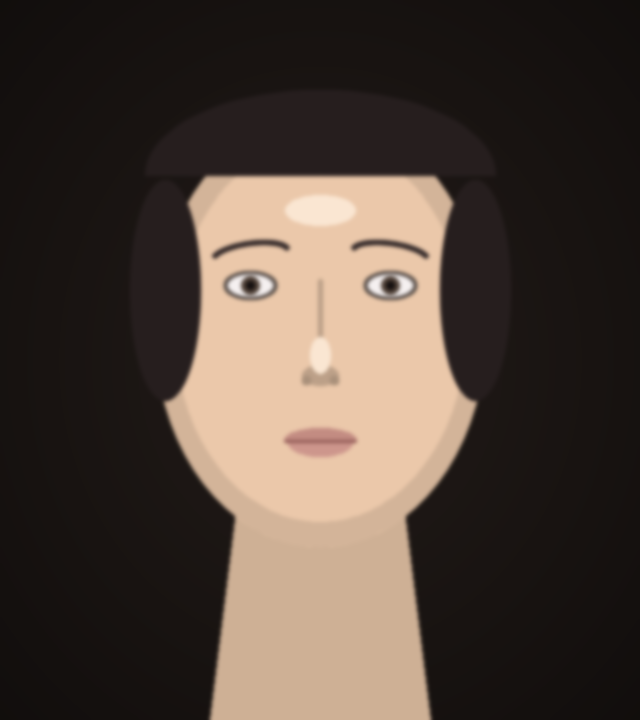
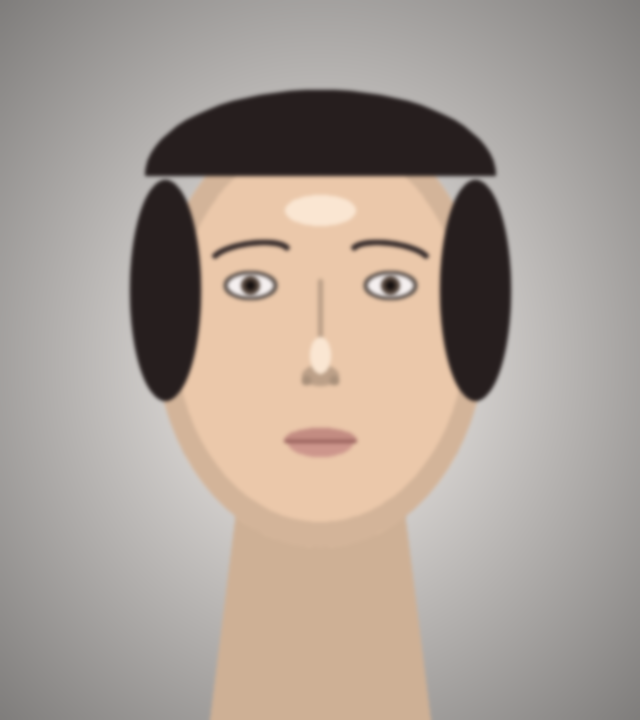
fix(ui): eradicate all dark backgrounds, set light theme, and style BaseWeb widgets with coastal sea-blue palette

diff --git a/skinnalgo/ui/styles.py b/skinnalgo/ui/styles.py
@@ -33,6 +33,185 @@ html, body, p, h1, h2, h3, h4, h5, h6, label, input, textarea, select, button, d
     border: none !important;
 }
 
+/* File Uploader Dropzone Container (Zero Dark Mode) */
+[data-testid="stFileUploaderDropzone"] {
+    background-color: #FFFFFF !important;
+    background: linear-gradient(135deg, #FFFFFF 0%, #F0F9FF 100%) !important;
+    border: 2px dashed rgba(14, 165, 233, 0.35) !important;
+    border-radius: 14px !important;
+    padding: 1.5rem !important;
+    box-shadow: 0 4px 16px rgba(14, 165, 233, 0.05) !important;
+    transition: all 0.2s ease !important;
+}
+
+[data-testid="stFileUploaderDropzone"]:hover {
+    border-color: #0284C7 !important;
+    background: #F0F9FF !important;
+}
+
+[data-testid="stFileUploaderDropzone"] span,
+[data-testid="stFileUploaderDropzone"] small,
+[data-testid="stFileUploaderDropzone"] div {
+    color: #334155 !important;
+}
+
+[data-testid="stFileUploaderDropzone"] small {
+    color: #64748B !important;
+    font-size: 0.8rem !important;
+}
+
+[data-testid="stFileUploaderDropzoneInstructions"],
+[data-testid="stFileUploaderDropzoneInstructions"] * {
+    color: #475569 !important;
+}
+
+[data-testid="stFileUploaderFileData"] {
+    background-color: #F0F9FF !important;
+    border: 1px solid rgba(14, 165, 233, 0.25) !important;
+    border-radius: 10px !important;
+    color: #0F172A !important;
+}
+
+[data-testid="stFileUploaderFileData"] * {
+    color: #0F172A !important;
+}
+
+[data-testid="stFileUploaderDeleteBtn"] button {
+    background: transparent !important;
+    border: none !important;
+    color: #64748B !important;
+}
+
+[data-testid="stFileUploaderDeleteBtn"] button:hover {
+    color: #E11D48 !important;
+}
+
+/* BaseWeb Select Box Container & Inputs (Eradicate Dark Backgrounds) */
+div[data-baseweb="select"] {
+    background-color: transparent !important;
+}
+
+div[data-baseweb="select"] > div {
+    background-color: #FFFFFF !important;
+    border: 1px solid rgba(14, 165, 233, 0.28) !important;
+    border-radius: 12px !important;
+    color: #0F172A !important;
+    box-shadow: 0 2px 8px rgba(14, 165, 233, 0.04) !important;
+    transition: all 0.2s ease !important;
+}
+
+div[data-baseweb="select"] > div:hover {
+    border-color: #0284C7 !important;
+    box-shadow: 0 4px 12px rgba(14, 165, 233, 0.12) !important;
+}
+
+div[data-baseweb="select"] > div:focus-within {
+    border-color: #0284C7 !important;
+    box-shadow: 0 0 0 2px rgba(14, 165, 233, 0.25) !important;
+}
+
+/* All text inside select box */
+div[data-baseweb="select"] * {
+    color: #0F172A !important;
+    font-size: 0.92rem !important;
+    font-weight: 500 !important;
+}
+
+/* Dropdown Caret Icon */
+div[data-baseweb="select"] svg {
+    fill: #0284C7 !important;
+    color: #0284C7 !important;
+}
+
+/* Dropdown Menu Popover / Floating Menu (White & Coastal Palette) */
+div[data-baseweb="popover"],
+div[data-baseweb="popover"] > div,
+ul[role="listbox"],
+ul[data-baseweb="menu"] {
+    background-color: #FFFFFF !important;
+    border-radius: 12px !important;
+    border: 1px solid rgba(14, 165, 233, 0.25) !important;
+    box-shadow: 0 12px 32px rgba(14, 165, 233, 0.16) !important;
+}
+
+li[role="option"] {
+    background-color: #FFFFFF !important;
+    color: #0F172A !important;
+    font-size: 0.9rem !important;
+    padding: 10px 14px !important;
+    border-bottom: 1px solid rgba(14, 165, 233, 0.08) !important;
+    transition: all 0.15s ease !important;
+}
+
+li[role="option"]:hover,
+li[role="option"][aria-selected="true"] {
+    background-color: #F0F9FF !important;
+    color: #0284C7 !important;
+    font-weight: 600 !important;
+}
+
+li[role="option"] * {
+    color: inherit !important;
+}
+
+/* Input Fields (Zero Dark) */
+input[type="text"], input[type="number"], textarea, div[data-baseweb="input"] > div {
+    background-color: #FFFFFF !important;
+    border: 1px solid rgba(14, 165, 233, 0.28) !important;
+    border-radius: 10px !important;
+    color: #0F172A !important;
+}
+
+input[type="text"]:focus, input[type="number"]:focus, textarea:focus, div[data-baseweb="input"] > div:focus-within {
+    border-color: #0284C7 !important;
+    box-shadow: 0 0 0 2px rgba(14, 165, 233, 0.2) !important;
+}
+
+/* Portrait Viewport Image Styling */
+[data-testid="stImage"] {
+    background-color: transparent !important;
+    border-radius: 14px !important;
+}
+
+[data-testid="stImage"] > img {
+    border-radius: 14px !important;
+    border: 1px solid rgba(14, 165, 233, 0.25) !important;
+    box-shadow: 0 4px 18px rgba(14, 165, 233, 0.08) !important;
+    background-color: #FFFFFF !important;
+}
+
+[data-testid="stImageCaption"] {
+    color: #475569 !important;
+    font-size: 0.8rem !important;
+    font-weight: 600 !important;
+}
+
+/* Streamlit Alerts (Clean Seafoam / Aqua) */
+[data-testid="stAlert"] {
+    background-color: #F0F9FF !important;
+    color: #0369A1 !important;
+    border: 1px solid rgba(14, 165, 233, 0.3) !important;
+    border-radius: 12px !important;
+}
+
+[data-testid="stAlert"] * {
+    color: #0369A1 !important;
+}
+
+/* Streamlit Expanders */
+details, [data-testid="stExpander"] {
+    background-color: #FFFFFF !important;
+    border: 1px solid rgba(14, 165, 233, 0.22) !important;
+    border-radius: 12px !important;
+    color: #0F172A !important;
+}
+
+[data-testid="stExpander"] summary {
+    color: #0F172A !important;
+    font-weight: 600 !important;
+}
+
+
 /* Base App Coastal Water Sea-Blue & Sea-Green Background (NO DARK MODE) */
 .stApp {
     background-color: #F8FAFC !important;

diff --git a/scripts/generate_samples.py b/scripts/generate_samples.py
@@ -7,7 +7,7 @@ import cv2
 import numpy as np
 
 
-def create_base_portrait(w=640, h=720, skin_bgr=(165, 195, 230), bg_bgr=(25, 28, 35)):
+def create_base_portrait(w=640, h=720, skin_bgr=(165, 195, 230), bg_bgr=(245, 248, 252)):
     """Creates a base human portrait with realistic facial geometry and landmarks."""
     img = np.full((h, w, 3), bg_bgr, dtype=np.uint8)
 
